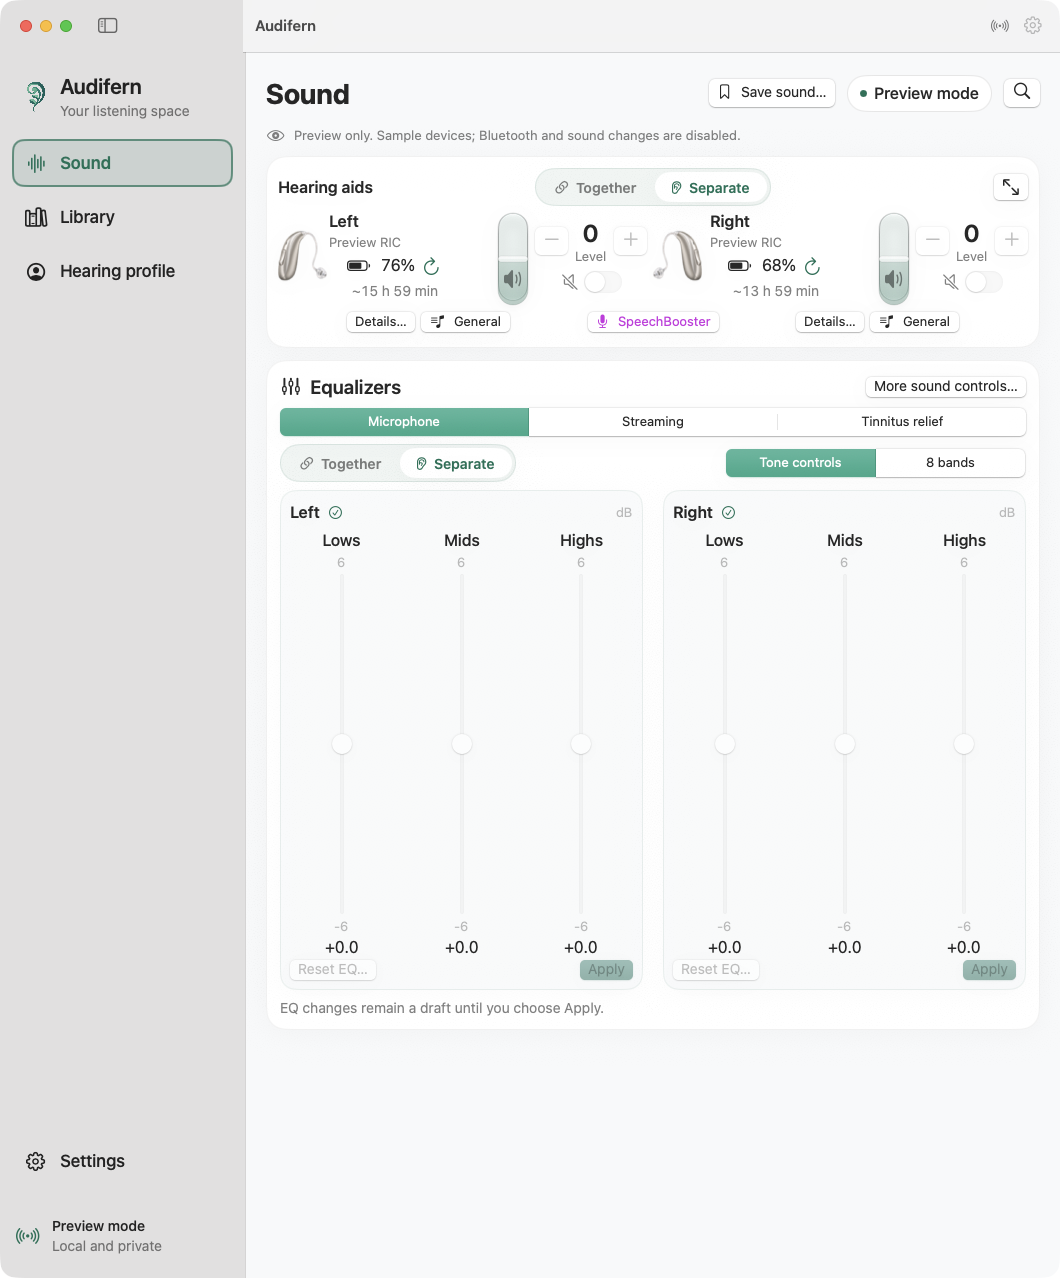
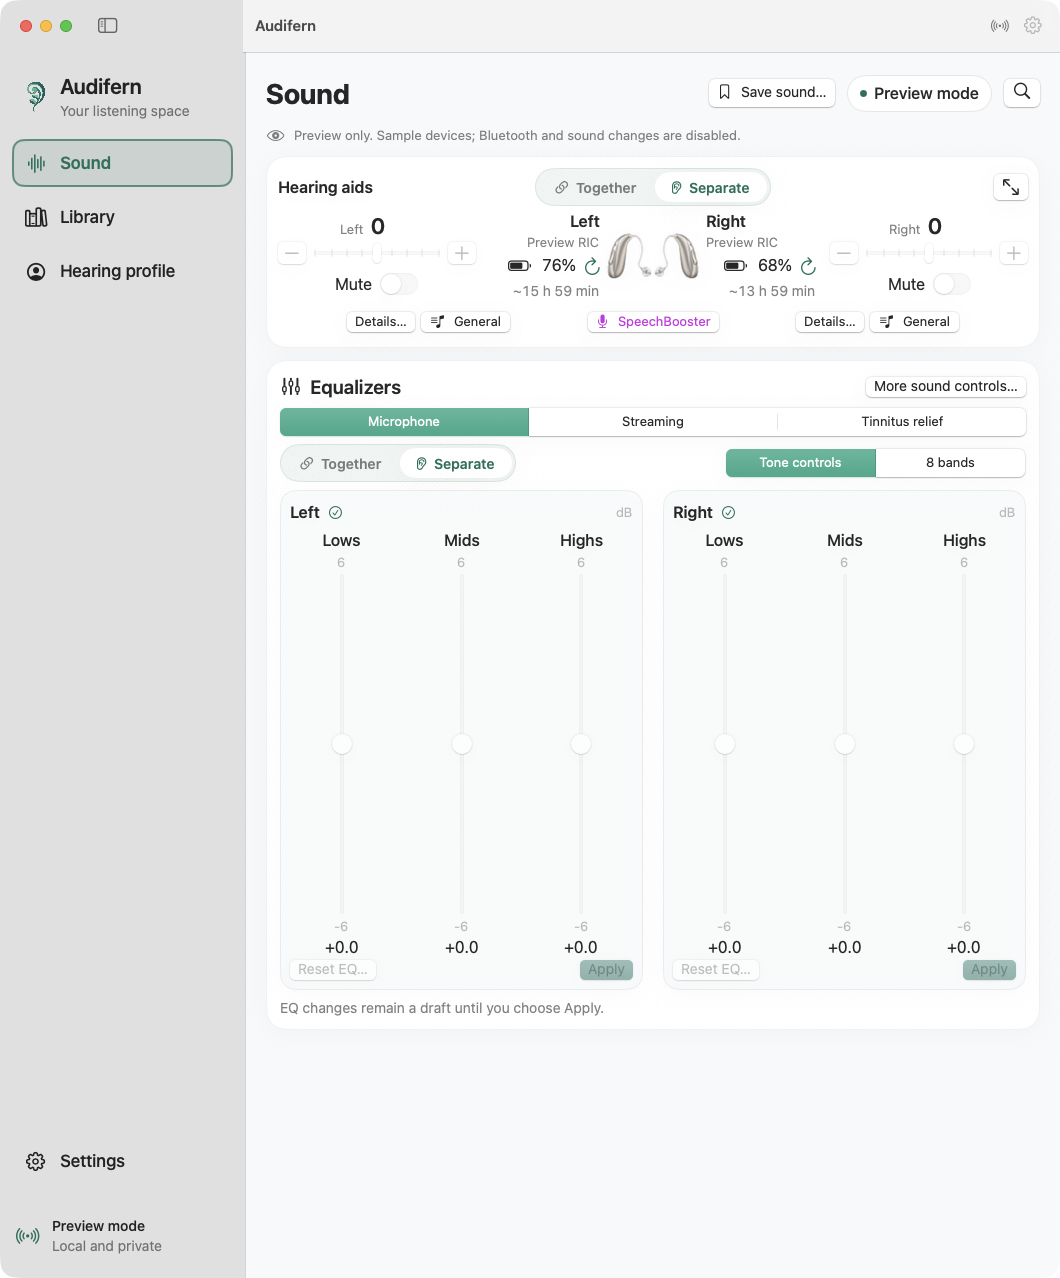
Use horizontal daily volume controls and bring device artwork together

diff --git a/Sources/Audifern/PairedSoundCard.swift b/Sources/Audifern/PairedSoundCard.swift
@@ -9,9 +9,7 @@ struct PairedSoundCard: View {
     var masterMixed = false
     var compact = false
     @Binding var expanded: Bool
-    @EnvironmentObject private var navigation: AppNavigation
     @Environment(\.accessibilityReduceMotion) private var reduceMotion
-    @Namespace private var faders
     private var pair: [AidConnection] { [left, right] }
 
     var body: some View {
@@ -33,13 +31,12 @@ struct PairedSoundCard: View {
                                          isMixed: masterMixed, affectsAllSections: true,
                                          scope: L("All sound controls"), identifier: "ear-control-mode")
                 }.frame(height: 38)
-                if compact { compactControls }
-                else { expandedControls }
+                volumeControls
                 HStack(spacing: 8) {
                     DeviceSoundButtons(aid: left).frame(maxWidth: .infinity)
                     SpeechBoosterQuickButton(store: store, aids: pair)
                     DeviceSoundButtons(aid: right).frame(maxWidth: .infinity)
-                }.frame(height: 28)
+                }.frame(maxWidth: 820).frame(height: 28)
                 if !compact {
                     Text(store.linkedActionStatus.map(M) ?? (masterMixed ? L("Custom grouping") : L("All sound controls")))
                         .font(AppType.caption).foregroundStyle(store.linkedActionFailed ? Color.orange : .secondary)
@@ -50,83 +47,46 @@ struct PairedSoundCard: View {
         }.animation(reduceMotion ? nil : .smooth(duration: 0.22), value: together)
     }
 
-    private var compactControls: some View {
-        HStack(spacing: 12) {
-            compactEar(left)
+    private var volumeControls: some View {
+        Group {
             if together {
-                HStack(spacing: 10) {
-                    VolumeFader(store: store, aid: left, targets: pair, height: 86, width: 32)
-                    VStack(spacing: 0) {
-                        VolumeLevelButtons(store: store, aid: left, targets: pair, compact: true)
-                        StableMuteToggle(store: store, targets: pair)
+                HStack(spacing: compact ? 16 : 24) {
+                    overview(left)
+                    DailyVolumeControl(store: store, aid: left, targets: pair).frame(maxWidth: compact ? 240 : 300)
+                    overview(right)
+                }.frame(maxWidth: compact ? 690 : 820)
+            } else if compact {
+                HStack(spacing: 14) {
+                    DailyVolumeControl(store: store, aid: left, targets: [left]).frame(maxWidth: 230)
+                    overview(left)
+                    overview(right)
+                    DailyVolumeControl(store: store, aid: right, targets: [right]).frame(maxWidth: 230)
+                }.frame(maxWidth: 860)
+            } else {
+                HStack(spacing: 32) {
+                    ForEach(pair) { aid in
+                        VStack(spacing: 10) {
+                            overview(aid)
+                            DailyVolumeControl(store: store, aid: aid, targets: [aid])
+                        }.frame(maxWidth: 350)
                     }
-                }.frame(width: 190)
+                }.frame(maxWidth: 740)
             }
-            compactEar(right)
-        }.frame(height: 90)
+        }.frame(maxWidth: .infinity).frame(height: compact ? 90 : 220)
     }
-    private func compactEar(_ aid: AidConnection) -> some View {
+    private func overview(_ aid: AidConnection) -> some View {
         HStack(spacing: 8) {
-            HearingAidArtwork(right: aid.sideLabel == "Right", size: 0.36)
-            VStack(alignment: .leading, spacing: 3) {
+            if aid.sideLabel == "Right" { illustration(aid) }
+            VStack(alignment: aid.sideLabel == "Left" ? .trailing : .leading, spacing: 3) {
                 Text(L(aid.sideLabel)).font(AppType.callout.weight(.semibold))
                 Text(aid.model ?? L("Hearing aid")).font(AppType.small).foregroundStyle(.secondary).lineLimit(1)
-                AidBatteryView(store: store, aid: aid, compact: true, compactWidth: together ? 142 : 110)
+                AidBatteryView(store: store, aid: aid, compact: true, compactWidth: compact ? 110 : 142)
             }
-            if !together {
-                Spacer(minLength: 0)
-                VolumeFader(store: store, aid: aid, targets: [aid], height: 86, width: 28)
-                VStack(spacing: 0) {
-                    VolumeLevelButtons(store: store, aid: aid, targets: [aid], compact: true)
-                    StableMuteToggle(store: store, targets: [aid], compact: true)
-                }
-            }
-        }.frame(maxWidth: .infinity)
-    }
-    private var expandedControls: some View {
-        VStack(spacing: 6) {
-            SoundEarColumns { earHeading(left) } center: { Color.clear } right: { earHeading(right) }
-            ZStack {
-                SoundEarColumns { HearingAidArtwork() } center: { Color.clear } right: { HearingAidArtwork(right: true) }
-                HStack(spacing: 44) {
-                    VolumeFader(store: store, aid: left, targets: together ? pair : [left])
-                        .matchedGeometryEffect(id: "left-fader", in: faders)
-                    if !together {
-                        VolumeFader(store: store, aid: right, targets: [right])
-                            .matchedGeometryEffect(id: "right-fader", in: faders).transition(.opacity)
-                    }
-                }
-            }.frame(height: 180)
-            ZStack {
-                SoundEarColumns { level(left) } center: { Color.clear } right: { level(right) }
-                if together { VolumeLevelButtons(store: store, aid: left, targets: pair) }
-            }.frame(height: 55)
-            ZStack {
-                SoundEarColumns { mute(left) } center: { Color.clear } right: { mute(right) }
-                if together { StableMuteToggle(store: store, targets: pair) }
-            }.frame(height: 32)
-            SoundEarColumns { AidBatteryView(store: store, aid: left, compact: true) }
-                center: { EmptyView() } right: { AidBatteryView(store: store, aid: right, compact: true) }
+            if aid.sideLabel == "Left" { illustration(aid) }
         }
     }
-    private func earHeading(_ aid: AidConnection) -> some View {
-        VStack(spacing: 5) {
-            Text(L(aid.sideLabel)).font(AppType.subheading.weight(.semibold))
-            HStack(spacing: 6) {
-                Circle().fill(aid.isConnected ? Brand.accent : Color.secondary).frame(width: 6, height: 6)
-                Text(aid.model ?? L("Hearing aid")).font(AppType.caption).foregroundStyle(.secondary).lineLimit(1)
-            }
-        }.frame(height: 54)
-    }
-    @ViewBuilder private func level(_ aid: AidConnection) -> some View {
-        if together {
-            Text(aid.volume.map { L("Level %d", $0.level) } ?? L("Level —"))
-                .font(AppType.callout.monospacedDigit()).foregroundStyle(.secondary)
-        } else { VolumeLevelButtons(store: store, aid: aid, targets: [aid]) }
-    }
-    @ViewBuilder private func mute(_ aid: AidConnection) -> some View {
-        if together { Image(systemName: aid.volume?.muted == true ? "speaker.slash.fill" : "speaker.wave.2").foregroundStyle(.secondary) }
-        else { StableMuteToggle(store: store, targets: [aid]) }
+    private func illustration(_ aid: AidConnection) -> some View {
+        HearingAidArtwork(right: aid.sideLabel == "Right", size: compact ? 0.32 : 0.65)
     }
 }
 

diff --git a/Sources/Audifern/DailyVolumeControl.swift b/Sources/Audifern/DailyVolumeControl.swift
@@ -1,0 +1,52 @@
+import CompanionCore
+import SwiftUI
+
+/// Horizontal daily volume: level above, step buttons at either end, mute below.
+/// Tracking previews locally and commits once on release, preserving ear balance.
+struct DailyVolumeControl: View {
+    @ObservedObject var store: BluetoothStore
+    let aid: AidConnection
+    let targets: [AidConnection]
+    @State private var preview: Int?
+    private var selection: MainVolumeSelection? { .init(aids: targets, anchorID: aid.id) }
+    private var subject: String { targets.count == 2 ? L("Both ears") : L(aid.sideLabel) }
+    var body: some View {
+        let captured = selection
+        VStack(spacing: 2) {
+            HStack(alignment: .firstTextBaseline, spacing: 7) {
+                Text(targets.count == 2 ? L("Level") : L(aid.sideLabel)).font(AppType.small).foregroundStyle(.secondary)
+                Text(preview.map(String.init) ?? aid.volume.map { String($0.level) } ?? "—")
+                    .font(.system(size: 22, weight: .semibold, design: .rounded)).monospacedDigit()
+                    .frame(width: 42, alignment: .leading)
+                    .accessibilityIdentifier("volume-value-\(targets.count == 2 ? "together" : aid.sideLabel.lowercased())")
+            }.frame(height: 24)
+                .help(targets.map { L($0.sideLabel) + ": " + ($0.volume.map { String($0.level) } ?? "—") }.joined(separator: " · "))
+            HStack(spacing: 8) {
+                step(-1, symbol: "minus")
+                NativeVolumeSlider(value: preview ?? aid.volume?.level ?? 0,
+                    range: captured?.range ?? aid.volumeRanges?.main ?? 0...0,
+                    enabled: !store.isDemo && captured != nil, label: L("%@ volume", subject),
+                    vertical: false, preview: { preview = $0 }, commit: { target in
+                        guard let captured, target != captured.level else { preview = nil; return }
+                        preview = target; store.setMainVolume(captured, level: target)
+                    })
+                    .frame(minWidth: 76, maxWidth: .infinity).frame(height: 24)
+                    .accessibilityIdentifier("volume-fader-\(targets.count == 2 ? "together" : aid.sideLabel.lowercased())")
+                step(1, symbol: "plus")
+            }.frame(height: 26).buttonStyle(.bordered).controlSize(.regular)
+            StableMuteToggle(store: store, targets: targets).controlSize(.regular)
+        }.frame(minWidth: 160, maxWidth: .infinity).frame(height: 86)
+            .accessibilityElement(children: .contain).accessibilityLabel(L("%@ volume", subject))
+            .onChange(of: aid.volume?.level) { _, _ in preview = nil }
+            .onChange(of: aid.actionFailed) { _, failed in if failed { preview = nil } }
+            .transaction { $0.animation = nil }
+    }
+    private func step(_ delta: Int, symbol: String) -> some View {
+        Button {
+            guard let selection else { return }
+            store.setMainVolume(selection, level: selection.level + delta)
+        } label: { Image(systemName: symbol).frame(width: 18, height: 20) }
+            .disabled(store.isDemo || selection.map { !$0.range.contains($0.level + delta) } ?? true)
+            .accessibilityLabel(delta < 0 ? L("Decrease %@ microphone level", subject) : L("Increase %@ microphone level", subject))
+    }
+}

diff --git a/Tests/AudifernTests/InlineEqualizerRenderingTests.swift b/Tests/AudifernTests/InlineEqualizerRenderingTests.swift
@@ -10,6 +10,7 @@ func renderInlineEqualizersInBothGroupingModesAndAllLanguages() throws {
     let folder = URL(fileURLWithPath: try #require(ProcessInfo.processInfo.environment["AUDIFERN_INLINE_EQ_PREVIEWS"]))
     try FileManager.default.createDirectory(at: folder, withIntermediateDirectories: true, attributes: [.posixPermissions: 0o700])
     let services = AudifernServices(demo: true)
+    let workspaceOnly = ProcessInfo.processInfo.environment["AUDIFERN_SOUND_WORKSPACE_ONLY"] == "1"
     let initialWindows = NSApplication.shared.windows.count
     func render<V: View>(_ view: V, name: String, width: CGFloat, height: CGFloat) throws {
         let host = NSHostingView(rootView: view
@@ -49,6 +50,7 @@ func renderInlineEqualizersInBothGroupingModesAndAllLanguages() throws {
             services.defaults.set(true, forKey: "soundDevicesExpanded")
             try render(ListenView(store: services.bluetooth), name: "expanded-\(language.rawValue)-\(grouped ? "together" : "separate")", width: 800, height: 740)
             services.defaults.set(false, forKey: "soundDevicesExpanded")
+            if workspaceOnly { continue }
             for microphone in [true, false] {
                 for detailed in [false, true] {
                     try render(PairedEqualizerView(store: services.bluetooth, aids: aids, microphone: microphone,
@@ -58,6 +60,7 @@ func renderInlineEqualizersInBothGroupingModesAndAllLanguages() throws {
                 }
             }
         }
+        if workspaceOnly { continue }
         for section in DeviceInformationPanel.Section.allCases {
             try render(DeviceInformationPanel(store: services.bluetooth, id: DemoData.leftID, section: section),
                 name: "device-\(language.rawValue)-\(section.rawValue)", width: 960, height: 597)

diff --git a/Sources/Audifern/NativeVolumeSlider.swift b/Sources/Audifern/NativeVolumeSlider.swift
@@ -10,13 +10,14 @@ struct NativeVolumeSlider: NSViewRepresentable {
     let enabled: Bool
     let label: String
     var style: Style = .standard
+    var vertical = true
     var preview: (Int?) -> Void
     var commit: (Int) -> Void
 
     func makeNSView(context: Context) -> ReleaseVolumeSlider {
         let slider = ReleaseVolumeSlider()
         if style == .capsule { slider.cell = CapsuleVolumeSliderCell() }
-        slider.isVertical = true
+        slider.isVertical = vertical
         slider.controlSize = .large
         slider.isContinuous = true
         slider.target = context.coordinator
@@ -27,6 +28,7 @@ struct NativeVolumeSlider: NSViewRepresentable {
     }
     func updateNSView(_ slider: ReleaseVolumeSlider, context: Context) {
         context.coordinator.parent = self
+        slider.isVertical = vertical
         slider.isEnabled = enabled && range.lowerBound < range.upperBound
         slider.setAccessibilityLabel(label)
         slider.trackFillColor = NSColor(Brand.accent)

diff --git a/Sources/Audifern/ListenView.swift b/Sources/Audifern/ListenView.swift
@@ -107,11 +107,7 @@ struct ListenView: View {
                     AidBatteryView(store: store, aid: aid, compact: true)
                 }
                 Spacer(minLength: 0)
-                VolumeFader(store: store, aid: aid, targets: [aid], height: 88, width: 32)
-                VStack(spacing: 4) {
-                    VolumeLevelButtons(store: store, aid: aid, targets: [aid], compact: true)
-                    StableMuteToggle(store: store, targets: [aid])
-                }
+                DailyVolumeControl(store: store, aid: aid, targets: [aid]).frame(maxWidth: 280)
                 Spacer(minLength: 0)
                 VStack(spacing: 8) {
                     DeviceSoundButtons(aid: aid)

diff --git a/Tests/AudifernTests/CompactSoundLayoutTests.swift b/Tests/AudifernTests/CompactSoundLayoutTests.swift
@@ -31,7 +31,7 @@ import Testing
         #expect(volumes.count == (grouped ? 1 : 2))
         #expect(equalizers.count == (grouped ? 3 : 6))
         for slider in volumes {
-            #expect(slider.bounds.height >= 72 && slider.bounds.height <= 90)
+            #expect(slider.isVertical == false && slider.bounds.width > slider.bounds.height)
         }
         for slider in volumes + equalizers {
             let frame = slider.convert(slider.bounds, to: host)

diff --git a/docs/quick-access.md b/docs/quick-access.md
@@ -7,7 +7,7 @@ reopen the window from the Dock. Quit ends app-owned connections.
 
 ## Together and Separate
 
-The selector above the main faders is the **master control**: choose Together or
+The selector above the volume controls is the **master control**: choose Together or
 Separate to set volume/mute, SpeechBooster, fitted-program controls, microphone
 EQ, streaming controls and tinnitus controls at once. Pressing Together again
 reapplies it even if volume was already grouped. Each section can override its
@@ -43,12 +43,13 @@ Sound includes connection actions and per-ear device details; Find hearing aids
 opens nearby discovery in the existing attached sheet. The separate Devices
 sidebar destination is no longer needed. Legacy feature links still open discovery.
 
-The main sound card keeps each device and its centered mode selector in place
-while faders merge into a central control. The filled vertical faders use native
-AppKit tracking and accessibility over Liquid Glass on macOS 26+, with a solid
-fallback on older systems or when Reduce Transparency is enabled. Reduced Motion disables that animation. Level values, mute switches,
-runtime text, refresh indicators and action feedback have reserved space so
-ordinary readback does not move neighboring controls.
+The main sound card keeps the device images close together. Daily volume runs
+horizontally: its level is above the slider, minus/plus buttons sit at the two
+ends and mute is below. Together shows one shared control between the devices;
+Separate shows an individually labeled control for each ear. Sliders preview
+while dragging and send only the final value on release. Battery/runtime,
+feedback and level text have reserved space so readback does not move adjacent
+controls. EQ bands remain vertical. Reduced Motion disables layout animation.
 
 ## Desktop widgets and system controls
 

diff --git a/docs/quick-access-validation.md b/docs/quick-access-validation.md
@@ -1,6 +1,6 @@
 # Quick-access validation — 2026-10-21
 
-Local development build: **0.8.0 (13)**. This records the extent of verification;
+Local development build: **0.8.0 (14)**. This records the extent of verification;
 it is not a claim that a new public release has been published.
 
 - Swift: 170 app tests and 131 core tests passed; the XCTest suite ran 68 cases
@@ -82,3 +82,19 @@ GPG signatures are retained as requested.
 - The two mailbox-expiry fixtures now use a fixed shared timestamp. Separate
   clock reads could accidentally make their sample snapshot come from the
   future; production freshness validation remains strict and unchanged.
+
+## Horizontal daily volume follow-up
+
+- Daily volume now runs horizontally with a fixed level label above, minus and
+  plus buttons at the ends, and mute below. Together places one shared control
+  between the original device images; Separate keeps both devices together with
+  an explicitly labeled control for each ear. EQ bands stay vertical.
+- The short-viewport test now verifies horizontal native volume controls and
+  vertical EQ controls simultaneously, with all real fader frames inside the
+  viewport. The full 170-app/131-core Swift suites passed. Compact and expanded
+  layouts were rendered and reviewed in all three languages, including the
+  740 × 700 point Portuguese layout. Widget and protocol behavior are unchanged.
+- Native accessibility confirmed one horizontal volume fader for Together and
+  two for Separate, while the sixteen detailed EQ faders remained vertical.
+  Folding and reopening EQ preserved the eight-band choice. No scrollbar was
+  present in the Sound workspace; protected focus was restored after capture.

diff --git a/docs/images/README.md b/docs/images/README.md
@@ -65,3 +65,8 @@ strip gives most of the workspace to the inline EQ. `audifern-eq-eight-bands.png
 shows both eight-band editors at once. `audifern-device-details.png` shows the
 fixed device-information panel's Diagnostics tab. These are native captures of
 the isolated demo app. No actual device information or sound commands were used.
+
+The two Sound overview captures were subsequently refreshed for **0.8.0 (14)**,
+using the horizontal daily-volume layout. The device-information capture
+continues to show the same tabbed panel introduced in build 13. EQ controls
+remain vertical and both source grouping modes are shown in the overview shots.
